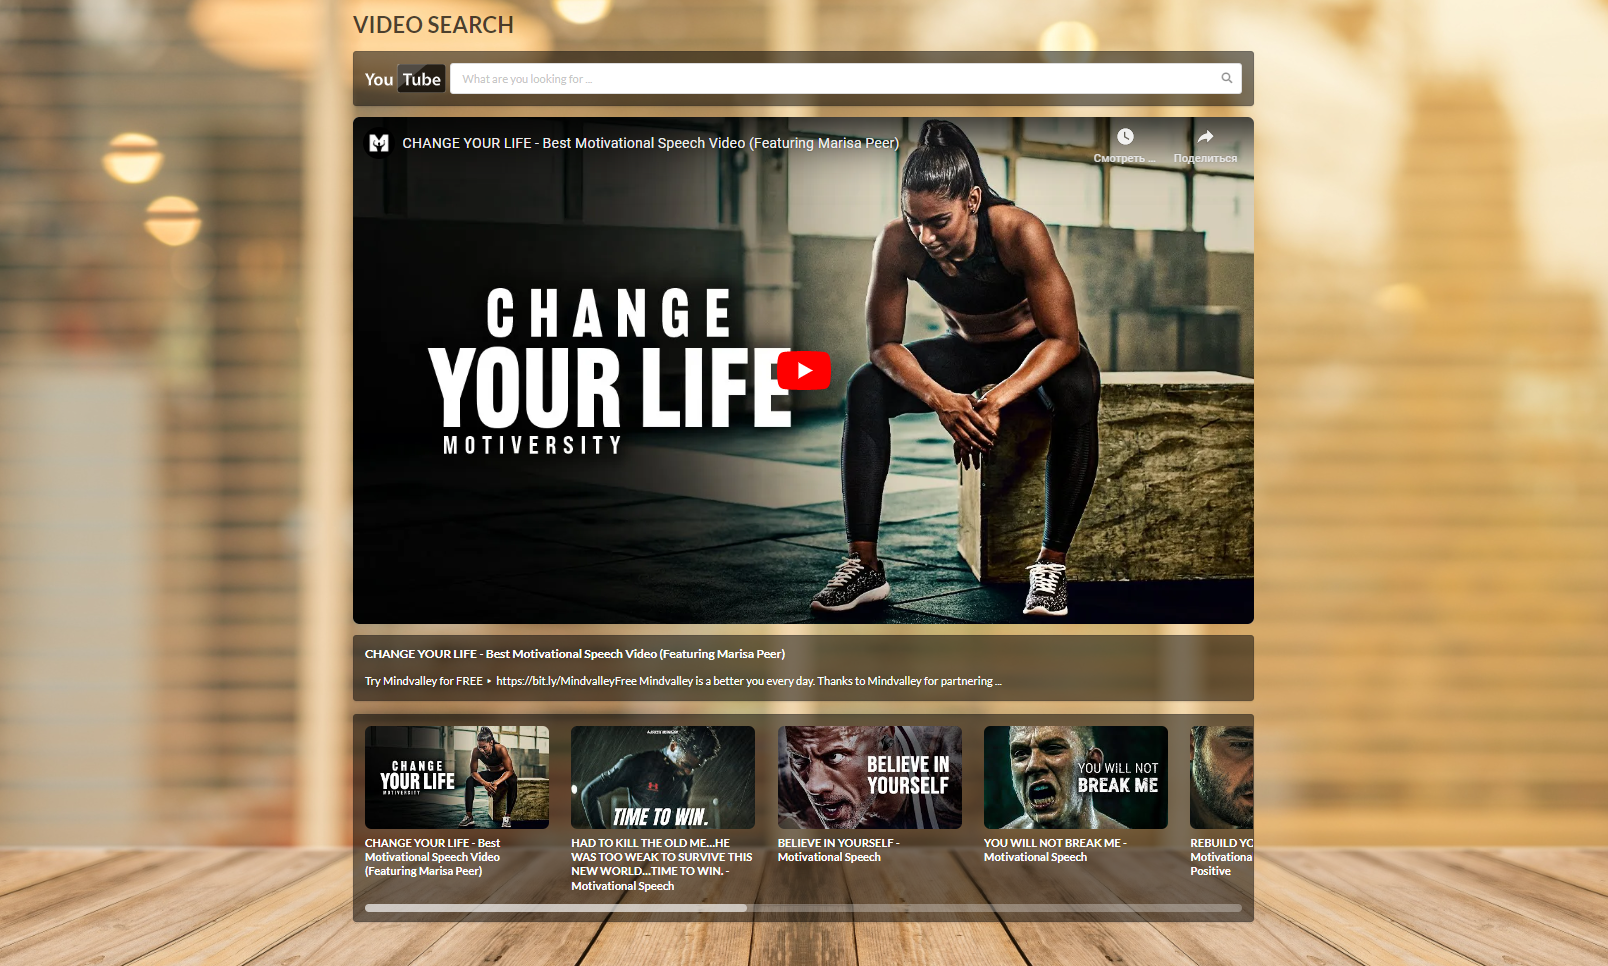
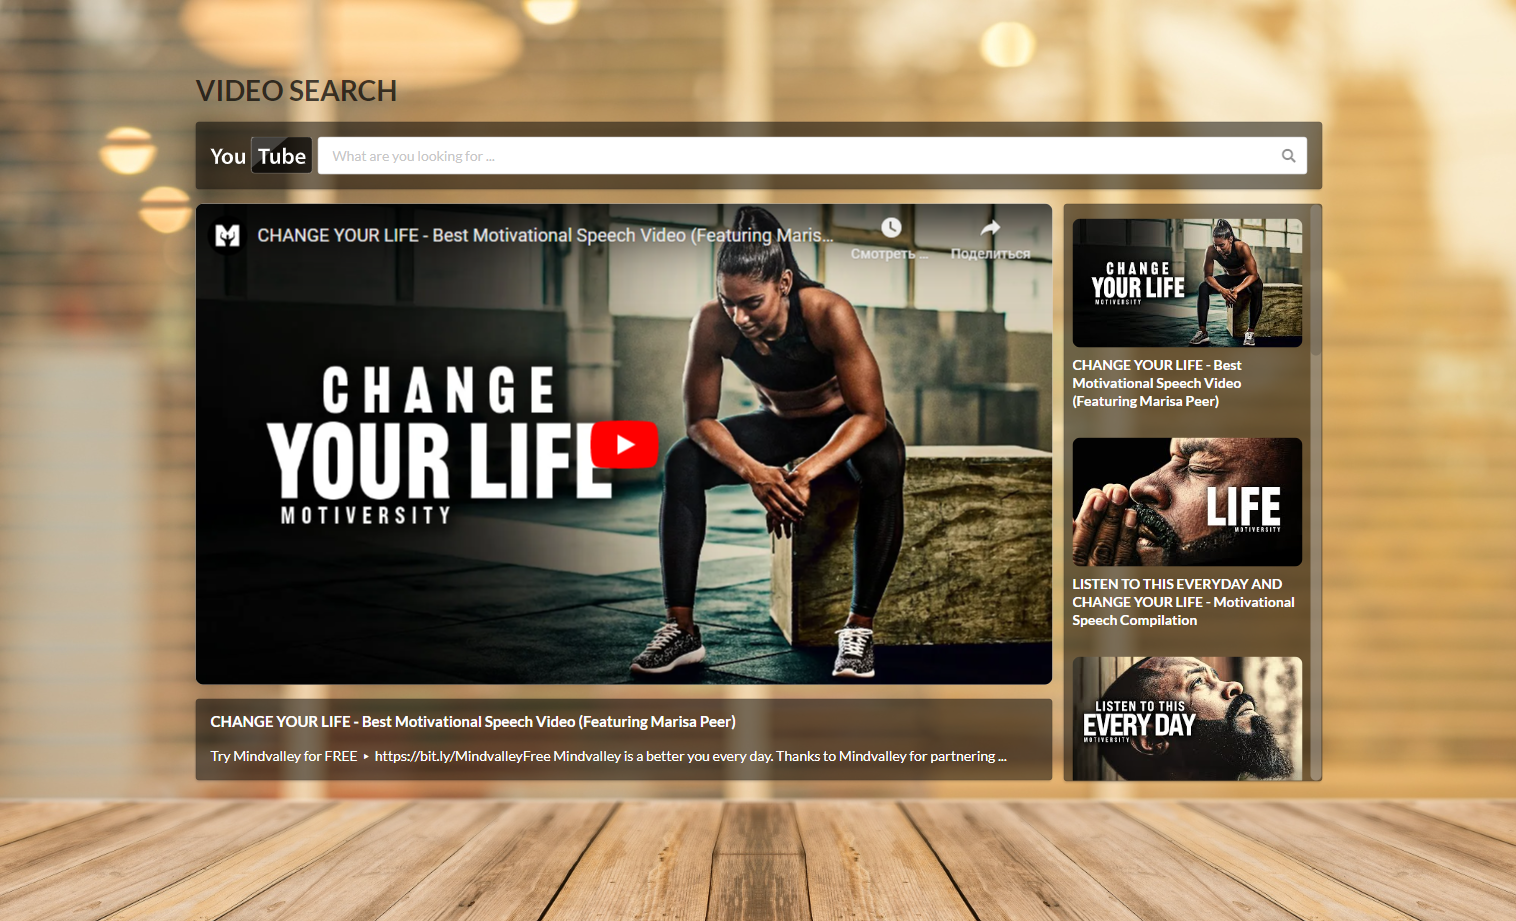
change arrangement of video list

diff --git a/src/components/VideoList.js b/src/components/VideoList.js
@@ -1,13 +1,29 @@
-import React from "react";
+import React, { useState, useEffect } from "react";
 import VideoItem from "./VideoItem";
 import "../styles/VideoList.css";
 
 const VideoList = ({ videos, onVideoSelect }) => {
+    //check screen width
+    const [windowWidth, setWindowWidth] = useState(window.innerWidth);
+    //if width was changed, update State
+    const setWindowDimensions = (e) => {
+        setWindowWidth(window.innerWidth);
+    };
+    useEffect(() => {
+        window.addEventListener("resize", (e) => setWindowDimensions(e), {
+            passive: false,
+        });
+        return () => {
+            window.removeEventListener("resize", (e) => setWindowDimensions(e));
+        };
+    }, []);
     //we pass props from App component
     const renderedList = videos.map((video) => {
+        //video list direction based on the screen width
+        const bigScreen = windowWidth > 1200 ? "row" : "column";
         //map array of videos
         return (
-            <div className="eight wide column" key={video.id.videoId}>
+            <div className={`eight wide ${bigScreen}`} key={video.id.videoId}>
                 <VideoItem
                     onVideoSelect={onVideoSelect} //we pass callback onVideoSelect from App to VideoItem
                     video={video} //and we map prop videos and pass a new object as a prop to VideoItem

diff --git a/src/styles/App.css b/src/styles/App.css
@@ -4,12 +4,18 @@ body {
     background: url("../pics/background.jpg");
     background-size: cover;
 }
+
 .ui.container {
     padding-top: 20px;
 }
+
 .main h1.header {
     color: rgba(0, 0, 0, 0.7);
     font-weight: 900;
+}
+
+#videoList {
+    height: 260px;
 }
 
 /* No to display videoList container until data is fetched */
@@ -22,10 +28,45 @@ body {
     background: rgba(0, 0, 0, 0.5);
     color: white;
 }
+
+/* Loading spinner */
 .loading:before,
 .ui.loading.segment:before {
     background: none;
 }
+
 .loading::after {
     display: none;
+}
+
+@media only screen and (min-width: 992px) and (max-width: 1199px) {
+    .ui.container {
+        width: 723px;
+    }
+}
+
+/* For big screens list of videos move from bottom to right side */
+@media only screen and (min-width: 1200px) {
+    .ui.container {
+        width: 1127px;
+        padding: 0;
+        position: absolute;
+        top: 45%;
+        left: 50%;
+        transform: translate(-50%, -50%);
+    }
+
+    #content {
+        display: grid;
+        grid-template-columns: 76% 23%;
+        justify-content: space-between;
+    }
+
+    .ui.grid.video-list {
+        flex-wrap: wrap;
+        overflow-y: scroll;
+        overflow-x: hidden;
+        justify-content: center;
+        max-height: 576px;
+    }
 }

diff --git a/src/components/App.js b/src/components/App.js
@@ -22,13 +22,13 @@ const App = () => {
             {/* onFormSubmit is a prop that we pass to SearchBar */}
             <SearchBar onFormSubmit={search} />
             <div className="ui equal width grid">
-                <div className="column">
-                    <div className="row">
+                <div className="column" id="content">
+                    <div className="row" id="screen">
                         {/* we pass down a single object 'video' as a prop to VideoDetails */}
                         <VideoDetails video={selectedVideo} />
                     </div>
-                    <div className={!selectedVideo ? "displayNone" : "row"}>
-                        <div className="ui segment" style={{ height: "260px" }}>
+                    <div className={!selectedVideo ? "displayNone" : "row "} id="videoList">
+                        <div className="ui segment">
                             {/* we pass a prop that equals State 'videos' and callback function 'onVideoSelect' */}
                             <VideoList
                                 onVideoSelect={setSelectedVideo} //callback that works when an user clicks on some video
